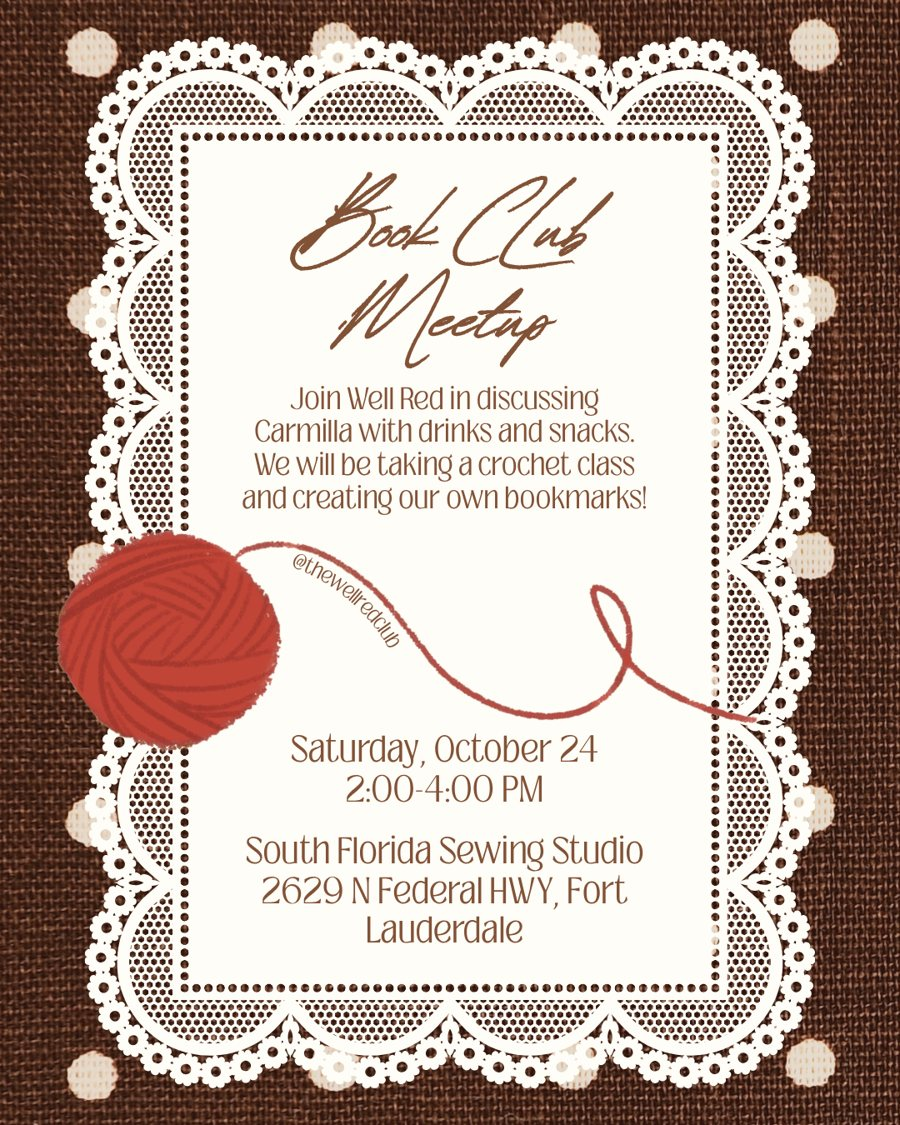
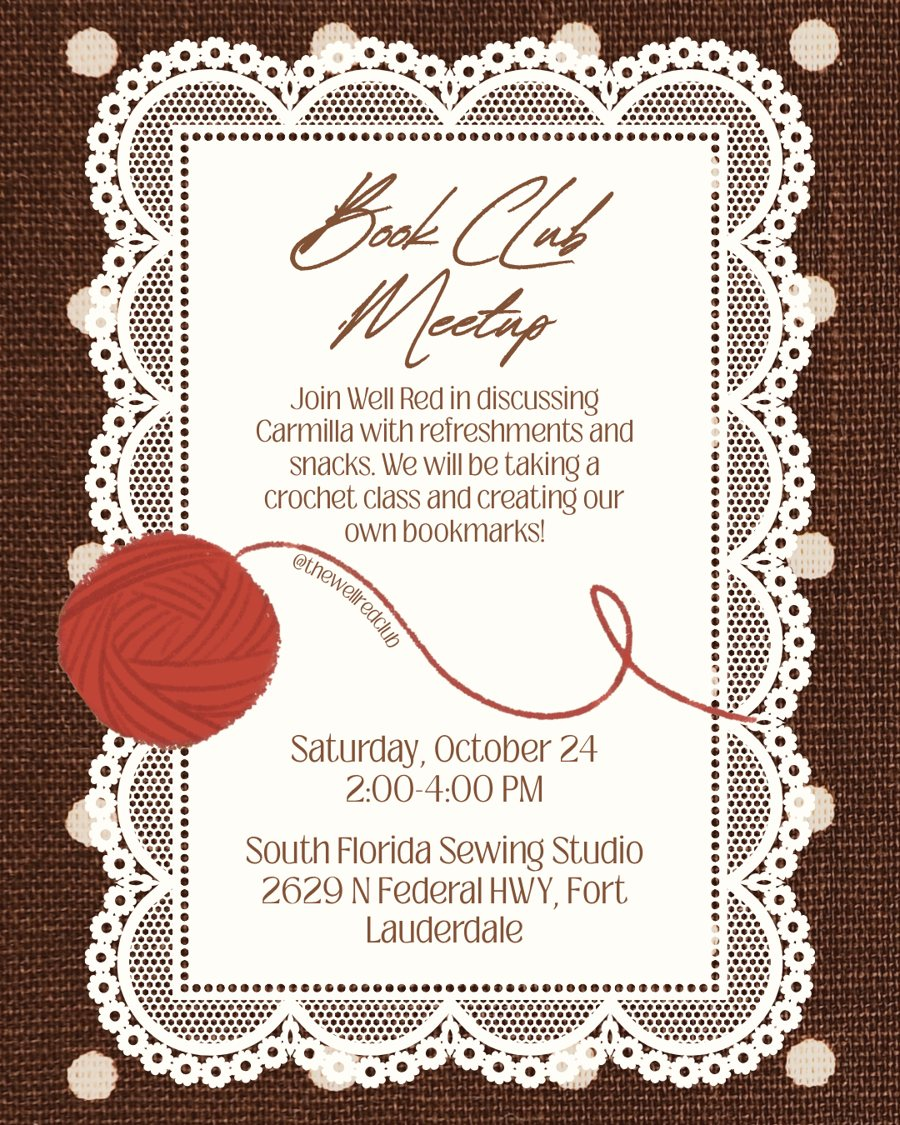
Updated October flyer on site

Changed region(s): [[0.28, 0.3733, 0.7156, 0.4978]]

diff --git a/meetups.html b/meetups.html
@@ -435,7 +435,7 @@ footer{margin-top:var(--stack);border-top:1px solid var(--blush-line);padding-bl
 
   <div class="band" style="margin-top:clamp(34px,5vw,52px)">
     <div class="plate rise flyer">
-      <img src="october-flyer.jpg" width="900" height="1125" alt="WellRed Book Club Meetup flyer: crochet class and Carmilla, Saturday October 24, 2 to 4 PM, South Florida Sewing Studio">
+      <img src="october-flyer.jpg?v=2" width="900" height="1125" alt="WellRed Book Club Meetup flyer: crochet class and Carmilla, Saturday October 24, 2 to 4 PM, South Florida Sewing Studio">
     </div>
     <div class="copy rise">
       <span class="kicker">Next meetup <span class="star">&#10022;</span></span>

diff --git a/partners.html b/partners.html
@@ -439,7 +439,7 @@ footer{margin-top:var(--stack);border-top:1px solid var(--blush-line);padding-bl
 
   <div class="band flyer-band">
     <div class="plate flyer rise">
-      <img src="october-flyer.jpg" width="900" height="1125" alt="WellRed x South Florida Sewing Studio October meetup flyer">
+      <img src="october-flyer.jpg?v=2" width="900" height="1125" alt="WellRed x South Florida Sewing Studio October meetup flyer">
     </div>
     <div class="copy rise">
       <span class="kicker">Coming up October 24 <span class="star">&#10022;</span></span>
